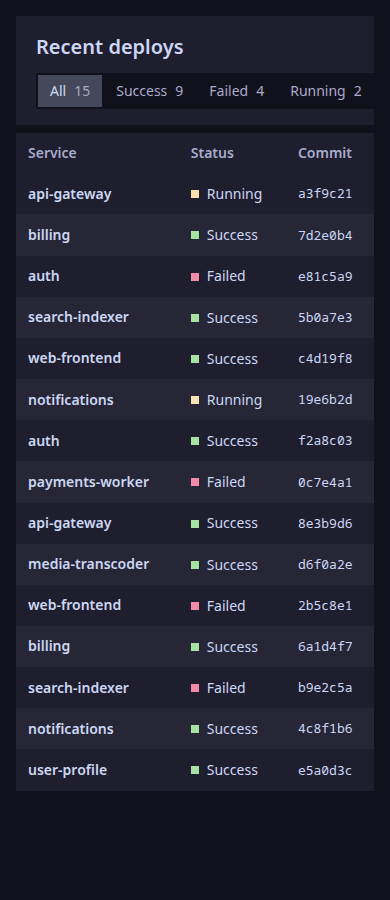
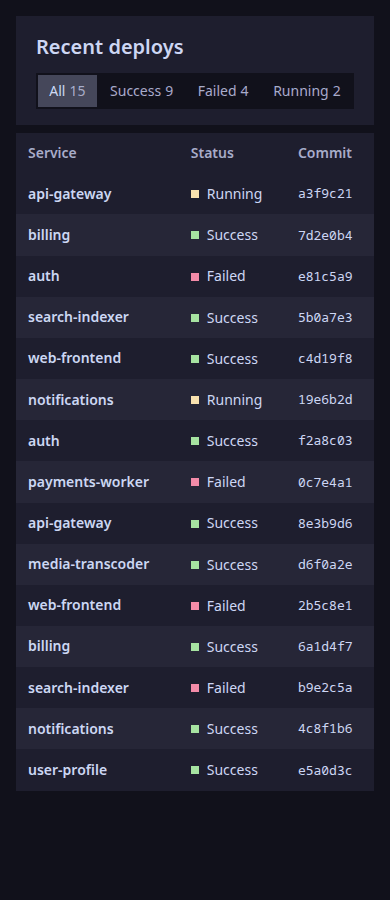
Fix deploys filter overflow on phones

Changed region(s): [[0.1231, 0.0622, 0.4615, 0.1244], [0.7077, 0.0933, 0.9231, 0.1244], [0.4923, 0.0933, 0.6769, 0.1244]]

diff --git a/SKILL.md b/SKILL.md
@@ -168,7 +168,7 @@ If a browser is available, render the page and look at it: every interactive sta
 - Left-align. Center only a lone small element like a login form.
 - 4px spacing scale; tighter inside panels, wider between them. Text inside any filled surface keeps at least 8px from its edges (badges 4px 8px).
 - Controls 32–36px tall. Body text 14–15px in apps, 16px on reading pages. Prose max ~70ch.
-- Narrow screens: stack panels, 16px gutters, no horizontal scroll. Wide code blocks and tables scroll inside their own box and keep the gutter.
+- Narrow screens: stack panels, 16px gutters, no horizontal scroll. Wide code blocks and tables scroll inside their own box and keep the gutter. Button groups and segmented controls span the row and wrap when they don't fit, never running past their panel's padding.
 - Content never overflows its panel or slides under another one. When a side panel or drawer opens, the content beside it must reflow: give flex children `min-width: 0`, wrap wide tables in `overflow-x: auto`, and hide or wrap columns with container queries on the space the table actually has, not media queries on the viewport.
 
 ## Components
